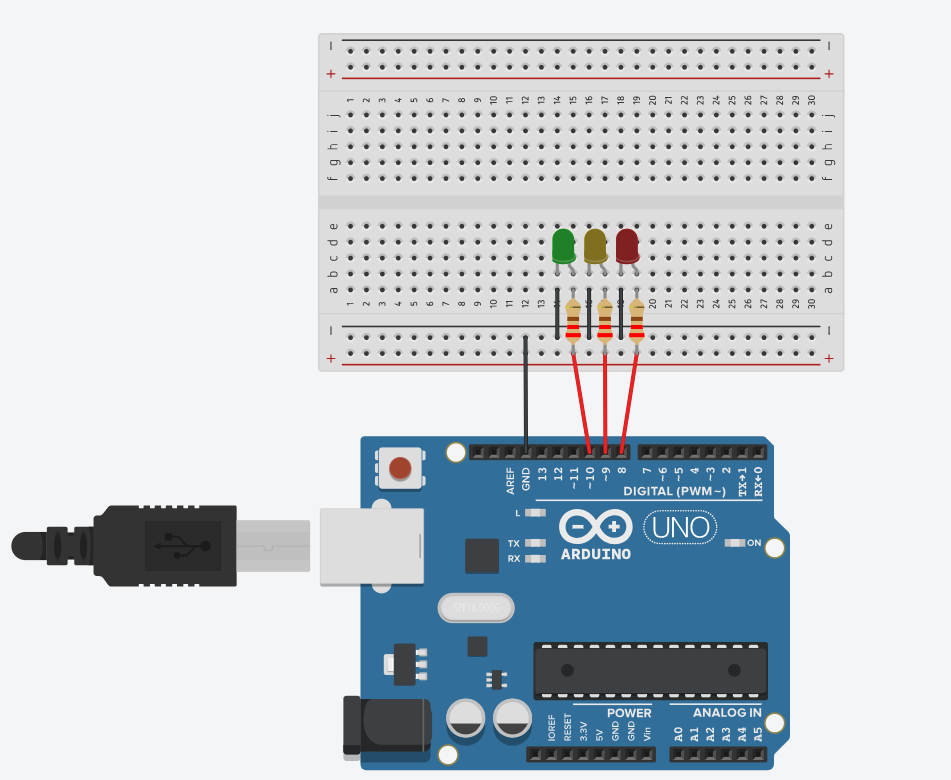
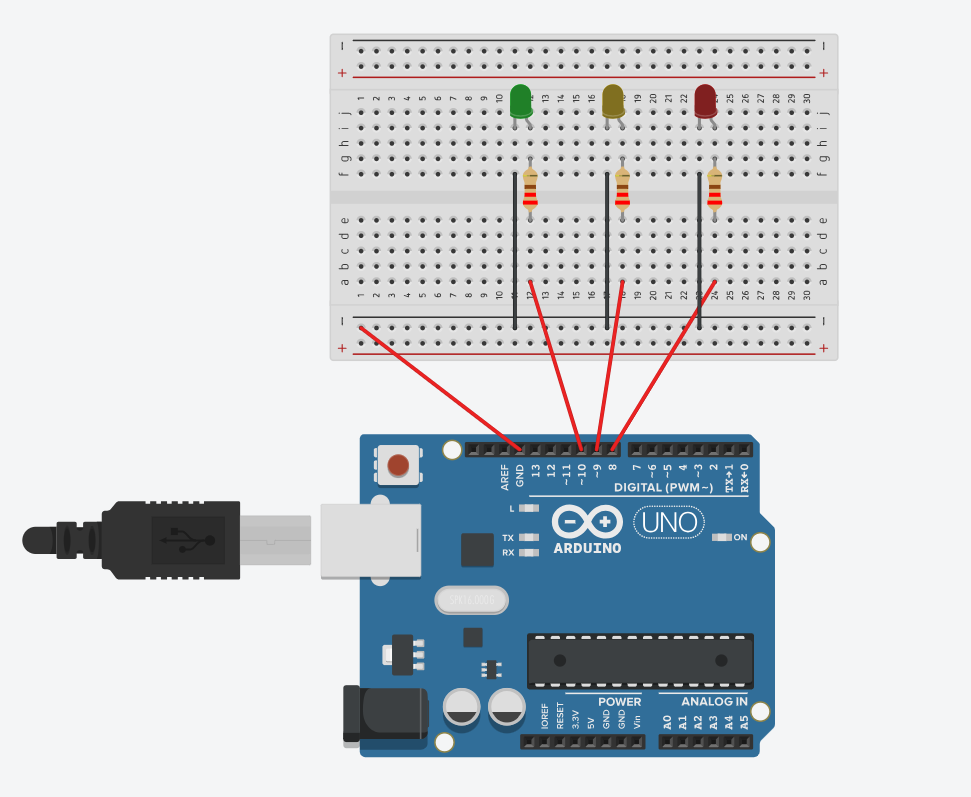
feat: captura definitiva i enllac public del semafor de Tinkercad
Captura nova (catodes amb cables negres al carril de massa) i enllac
amb sharecode del disseny SA2-Semafor, amb Copy and Tinker, com a SA1.

Changed region(s): [[0.0, 0.0308, 0.9148, 1.0]]

diff --git a/Classes/SA2/SA2_esquemes_connexions.md b/Classes/SA2/SA2_esquemes_connexions.md
@@ -35,7 +35,9 @@
 
 **Al simulador i amb components reals:**
 
-![Captura de Tinkercad del semàfor a la protoboard: tres LED (verd, groc i vermell) amb la seva resistència de 220 ohms, cables de senyal cap als pins 8, ~9 i ~10 de l'Arduino UNO i cable negre de retorn a GND](img/sa2-tinkercad-semafor.png)
+![Captura de Tinkercad del semàfor a la protoboard: tres LED (verd, groc i vermell) amb la seva resistència de 220 ohms, els càtodes amb cables negres al carril de massa, cables vermells de senyal cap als pins 8, ~9 i ~10 de l'Arduino UNO i retorn del carril a GND](img/sa2-tinkercad-semafor.png)
+
+▶ **Obre la simulació a Tinkercad** (pots fer *Copy and Tinker* per modificar-la): <https://www.tinkercad.com/things/aYZvUenzQ6c-sa2-semafor?sharecode=RK48gLo9I5cgj1lBzIenLJUhcTMZFcBzePUGJtUvltU>
 
 ![Fotografia del muntatge real del semàfor: protoboard amb els tres LED (el vermell encès), resistències de 220 ohms, cables taronja de senyal cap als pins digitals de l'Arduino UNO i cable blanc de retorn a GND](img/sa2-muntatge-real-semafor.jpg)
 
